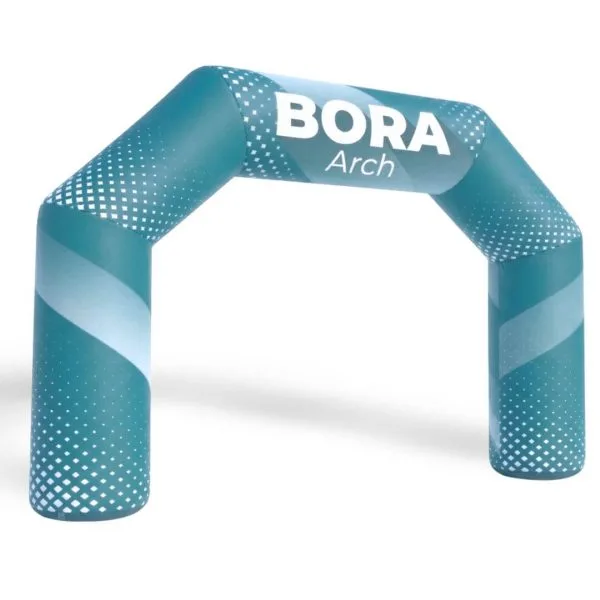
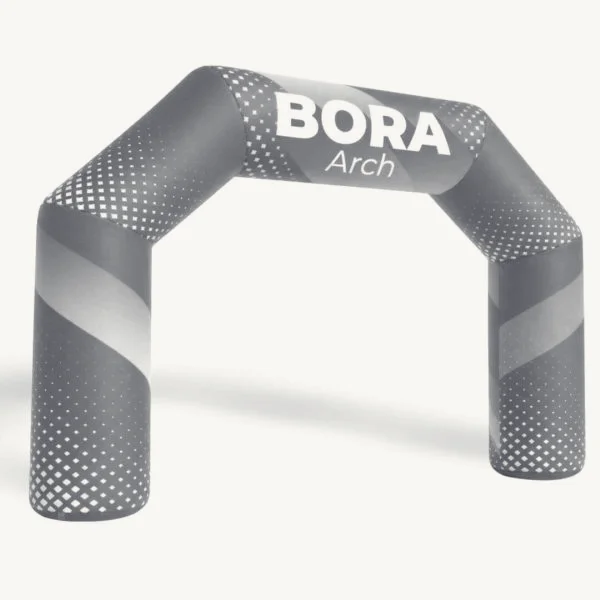
design(golf): sistema immagini misto, foto duotone + icone originali
Le foto Ultima Displays con modelli fuori tono (banchetto, segnaletica,
roll up, totem) sono sostituite da icone originali disegnate da zero
(GolfIcon.astro, SVG lineari navy/cream/arancio), coerenti tra loro e con
le 3 foto rimaste, trattate in un duotone navy/cream per stare nella
palette 2promo invece che come scatti da catalogo fornitore generico.

Kit Green e "Tovaglie e bandiere istituzionali", prima senza alcun visual,
ora hanno un'icona (bandiera buca, tovaglia+bandierina). Impaginazione
uniformata su tutte le card kit/catalogo: stesso tile aspect-[4/3],
sfondo alternato cream/navy per ritmo visivo. Aggiunto lo stesso badge
icona in cima alle 3 pagine di dettaglio kit.

Changed region(s): [[0.03, 0.09, 0.99, 0.87]]

diff --git a/src/data/golf-kits.ts b/src/data/golf-kits.ts
@@ -1,6 +1,8 @@
 // Dati dei 3 kit del verticale golf: fonte unica per /golf e le pagine di dettaglio.
 // I kit sono un'idea di composizione, non ancora un listino definitivo: niente prezzo
 // pubblicato, il prezzo si chiede via form (vedi ctaLabel).
+export type GolfIconName = 'rollup' | 'totem' | 'bandiera-buca';
+
 export interface GolfKit {
   slug: string;
   name: string;
@@ -8,7 +10,8 @@ export interface GolfKit {
   tagline: string;
   description: string;
   includes: string[];
-  image?: string;
+  icon: GolfIconName;
+  tile: string;
   metaTitle: string;
   metaDescription: string;
 }
@@ -29,7 +32,8 @@ export const GOLF_KITS: GolfKit[] = [
       'Tee marker personalizzati ([TBD-QTY-TEEMARKER] pezzi)',
       '1 roll up per la premiazione',
     ],
-    image: '/golf/products/rollup-premiazione.webp',
+    icon: 'rollup',
+    tile: 'bg-orange-pale',
     metaTitle: 'Kit Gara Sponsor: Bandiere e Allestimento Gara Golf | 2promo',
     metaDescription:
       'Kit Gara Sponsor: 18 bandiere gara logate, 2 banner, tee marker e roll up premiazione. Grafica inclusa, consegna confermata prima della gara.',
@@ -46,7 +50,8 @@ export const GOLF_KITS: GolfKit[] = [
       'Tovaglia premiazioni',
       'Totem ingresso',
     ],
-    image: '/golf/products/totem-ingresso.webp',
+    icon: 'totem',
+    tile: 'bg-navy',
     metaTitle: 'Kit Circolo: Bandiere e Allestimento Golf Club | 2promo',
     metaDescription:
       'Kit Circolo: bandiere personalizzate del club, tovaglia premiazioni, totem ingresso. Grafica inclusa, consegna confermata.',
@@ -62,6 +67,8 @@ export const GOLF_KITS: GolfKit[] = [
       'Set bandiere campo (18 buche)',
       'Materiale tessile di ricambio',
     ],
+    icon: 'bandiera-buca',
+    tile: 'bg-orange-pale',
     metaTitle: 'Kit Green: Bandiere Campo Golf 18 Buche | 2promo',
     metaDescription:
       'Kit Green: set bandiere campo per le 18 buche e materiale tessile di ricambio per il rinnovo stagionale. Consegna confermata.',

diff --git a/REPORT-GOLF.md b/REPORT-GOLF.md
@@ -1,6 +1,6 @@
 # Report: Verticale Golf (`/golf`)
 
-Branch `golf` su `glascala-wq/2promo-landing`. Sviluppato in autonomia secondo `PROJECTS/2promo/verticale-golf/cc-brief-golf.md`, approvato da Giovanni il 21 luglio 2026, con due correzioni di rotta date da Giovanni in sessione lo stesso giorno (vedi "Round 2" più sotto).
+Branch `golf` su `glascala-wq/2promo-landing`. Sviluppato in autonomia secondo `PROJECTS/2promo/verticale-golf/cc-brief-golf.md`, approvato da Giovanni il 21 luglio 2026, con correzioni di rotta date da Giovanni in sessione lo stesso giorno (vedi "Round 2" e "Round 3" più sotto).
 
 ## Cosa c'è
 
@@ -9,7 +9,7 @@ Branch `golf` su `glascala-wq/2promo-landing`. Sviluppato in autonomia secondo `
 - `/golf/grazie`: thank-you dedicata, tag conversione golf separato (Google Ads condizionato a env var, GA4 sempre attivo)
 - `src/pages/api/lead-golf.ts`: Brevo (lista dedicata) più notifica email interna e redirect, stesso pattern anti-spam (honeypot, timestamp, Turnstile) di `/api/lead.ts`
 - `src/data/golf-kits.ts`: fonte unica dei 3 kit, usata sia dalla griglia su `/golf` sia dalle pagine di dettaglio
-- Componenti nuovi in `src/components/golf/` (Hero, Kits, StrutturaGrafica, ComeFunziona, CatalogoCompleto, Rinnovo, ContactForm, ProductSchema). Nessun componente esistente del sito modificato, tutti riusati as-is (BaseLayout, Navbar, Footer, CookieBanner, Trust, Faq, Breadcrumbs)
+- Componenti nuovi in `src/components/golf/` (Hero, Kits, StrutturaGrafica, ComeFunziona, CatalogoCompleto, Rinnovo, ContactForm, ProductSchema, Icon). Nessun componente esistente del sito modificato, tutti riusati as-is (BaseLayout, Navbar, Footer, CookieBanner, Trust, Faq, Breadcrumbs)
 
 ## Brevo
 
@@ -32,14 +32,25 @@ Dopo la prima consegna, Giovanni ha chiesto tre correzioni, applicate tutte:
 
    Resta senza foto solo "Tovaglie e bandiere istituzionali": è un prodotto del fornitore tessile golf (Canepa & Campi), non di Ultima Displays, e non ho voluto usare una foto di bandiere pubblicitarie generiche perché mostrerebbe un prodotto diverso da quello che il cliente riceve davvero. Dettaglio completo di cosa è stato scelto e cosa scartato in `PROJECTS/2promo/verticale-golf/mapping-prodotti.md` (interno, fuori dal repo pubblico).
 
+## Round 3 (stessa giornata, "con le immagini puoi fare di meglio")
+
+Giovanni ha guardato il risultato del Round 2 e ha chiesto di fare di meglio sulle immagini, proponendo due strade (crearle con AI dato che sono soggetti semplici, o modificare quelle Ultima Displays) e di curare di più l'impaginazione. Non ho un tool di generazione immagini fotorealistiche disponibile in questa sessione, quindi ho lavorato su un sistema misto, guardando ogni foto già raccolta con occhio critico:
+
+- Delle 7 foto Ultima Displays del Round 2, solo 3 erano davvero pulite e adatte a un pubblico B2B golf formale (nessun modello, nessun tono fuori registro): fondali (Hop-Up Impact, un aereo di carta stilizzato), gazebo, gonfiabili (arco Bora). Le altre 4 (banchetto, segnaletica, roll up, totem) mostravano modelle in posa fashion/lifestyle o un cactus con occhiali da sole: non violavano la regola di anonimizzazione, ma non erano il tono giusto per circoli, sponsor e agenzie eventi.
+- Le 3 foto buone sono state trattate con un **duotone navy/cream** (script Python/PIL, colorize su base in scala di grigi, stessi colori brand `#1C1F2A`/`#F8F7F2`), per portarle dentro la palette 2promo invece di lasciarle come scatti da catalogo fornitore generico.
+- Per gli altri 6 slot (i 4 sostituiti più i 2 che non avevano mai avuto una foto: Kit Green e "Tovaglie e bandiere istituzionali") ho disegnato **6 icone originali da zero**, in un componente riusabile `GolfIcon.astro`: SVG lineari, stroke navy/cream, un accento arancio per elemento, coerenti tra loro e con le foto duotonate.
+- Impaginazione: card di kit e catalogo ora tutte con lo stesso trattamento (tile `aspect-[4/3]`, sfondo alternato cream chiaro/navy per ritmo visivo, foto o icona centrata), stessa logica già usata in `Categories.astro` sul resto del sito. Ho aggiunto un badge con l'icona anche in cima alle 3 pagine di dettaglio kit, per coerenza tra lista e dettaglio.
+
+Risultato: nessuna card senza un visual (anche Kit Green e le tovaglie, prima vuote, ora hanno un'icona), tono uniforme su tutta la sezione, nessun asset che deriva da un file del fornitore (le icone sono disegni originali, non ricalchi). Dettaglio di ogni scelta, comprese le 4 foto scartate in questo round e perché, in `mapping-prodotti.md`.
+
 ## Lighthouse (build di produzione, locale)
 
 | Pagina | Performance | Accessibility | Best Practices | SEO |
 |---|---|---|---|---|
-| `/golf/` | 98 | 96 | 96 | 69* |
-| `/golf/kit-gara/` | 100 | 96 | 96 | 69* |
+| `/golf/` | 95 | 96 | 96 | 69* |
+| `/golf/kit-gara/` | 97 | 96 | 96 | 69* |
 
-Target brief: Performance ≥90, A11y ≥95, entrambi raggiunti. Ricontrollato dopo le modifiche del Round 2 (nuove immagini, markup kit card): punteggi invariati.
+Target brief: Performance ≥90, A11y ≥95, entrambi raggiunti. Ricontrollato dopo le modifiche del Round 2 e del Round 3 (nuove immagini, icone, markup kit card): punteggi stabili, piccola oscillazione naturale dovuta al peso aggiuntivo delle foto (compensata dal lazy loading già in uso).
 
 \* SEO 69 è interamente dovuto al `noindex` intenzionale (richiesto dal brief §8, "robots noindex iniziale fino a review"): Lighthouse penalizza qualunque pagina non indicizzabile. Il punteggio sale a piena scala quando si rimuove `noindex` per il lancio pubblico.
 

diff --git a/TBD-REGISTRY.md b/TBD-REGISTRY.md
@@ -26,18 +26,19 @@ I kit sono ancora un'idea di composizione, non un listino definitivo (indicazion
 |---|---|---|
 | `[TBD-ADS-CONVERSION-LABEL]` | `src/pages/golf/grazie.astro` (commento e variabile `GOLF_ADS_CONVERSION_LABEL`) | Label della conversione Google Ads dedicata al verticale golf. Non bloccante: finché la env var `PUBLIC_GOLF_ADS_CONVERSION_LABEL` resta vuota, il codice non spara l'evento conversione (niente placeholder letterale inviato a Google Ads), parte solo l'evento GA4 `generate_lead`. Da valorizzare su Cloudflare Pages quando la campagna Ads golf viene creata. |
 
-## Foto prodotto ancora mancanti
+## Immagini
 
-La maggior parte delle foto necessarie sono state trovate sul catalogo Ultima Displays e sono già in uso (dettaglio in `PROJECTS/2promo/verticale-golf/mapping-prodotti.md`, file interno). Resta un solo gruppo scoperto: il tessile golf vero e proprio (bandiere gara, bandiere circolo, bandiere green, tee marker, tovaglie), fornito da Canepa & Campi, per cui non esiste ancora una foto disponibile online.
+Ogni card di kit e catalogo ha ormai un visual reale: le 3 foto prodotto pulite trovate su Ultima Displays (fondali, gazebo, gonfiabili), trattate in un duotone navy/cream coerente con la palette 2promo, più 6 icone originali disegnate da zero per gli item senza foto disponibile (banchetti, segnaletica, tovaglie/bandiere istituzionali, roll up, totem, bandiera buca). Nessun placeholder "Foto in arrivo" rimasto. Dettaglio completo di ogni scelta in `PROJECTS/2promo/verticale-golf/mapping-prodotti.md` (file interno).
+
+Resta scoperto solo il tessile golf vero e proprio (bandiere gara, bandiere circolo, bandiere green, tee marker), fornito da Canepa & Campi: oggi rappresentato dalle icone, non da foto reali del prodotto specifico.
 
 | Item | Dove | Nota |
 |---|---|---|
-| `[TBD-FOTO]` Tovaglie e bandiere istituzionali | `src/components/golf/GolfCatalogoCompleto.astro` (ultimo item dell'array `items`) | Prodotto Canepa & Campi, non Ultima Displays: non sostituire con una foto di bandiere pubblicitarie generiche, sarebbe un prodotto visivamente diverso |
-| `[TBD-FOTO]` Bandiere gara, bandiere circolo, bandiere green, tee marker | Non presenti come card fotografiche in nessuna pagina | Da fotografare quando arriva un campione fisico, o recuperare da area riservata fornitore Canepa & Campi |
+| `[TBD-FOTO]` Bandiere gara, bandiere circolo, bandiere green, tee marker | Rappresentati con icone generiche nelle card kit, non foto | Da fotografare quando arriva un campione fisico, o recuperare da area riservata fornitore Canepa & Campi, poi sostituire l'icona con la foto reale |
 
 ## Come procedere
 
 1. Cercare e sostituire ogni placeholder in questo file con il valore reale.
 2. Aggiornare `src/data/golf-kits.ts` nei punti indicati.
-3. Aggiungere le foto mancanti in `public/golf/products/` seguendo le regole in `verticale-golf/mapping-prodotti.md`, poi sostituire `image: null` con il path nel file indicato.
+3. Quando arriva una foto vera del tessile golf, seguire le regole in `verticale-golf/mapping-prodotti.md`, salvarla in `public/golf/products/`, poi sostituire l'`icon` con un `image` nel file indicato (vedi `GolfCatalogoCompleto.astro` o `golf-kits.ts` per il pattern già in uso sugli altri item).
 4. Cancellare le righe di questo registro via via che vengono risolte.